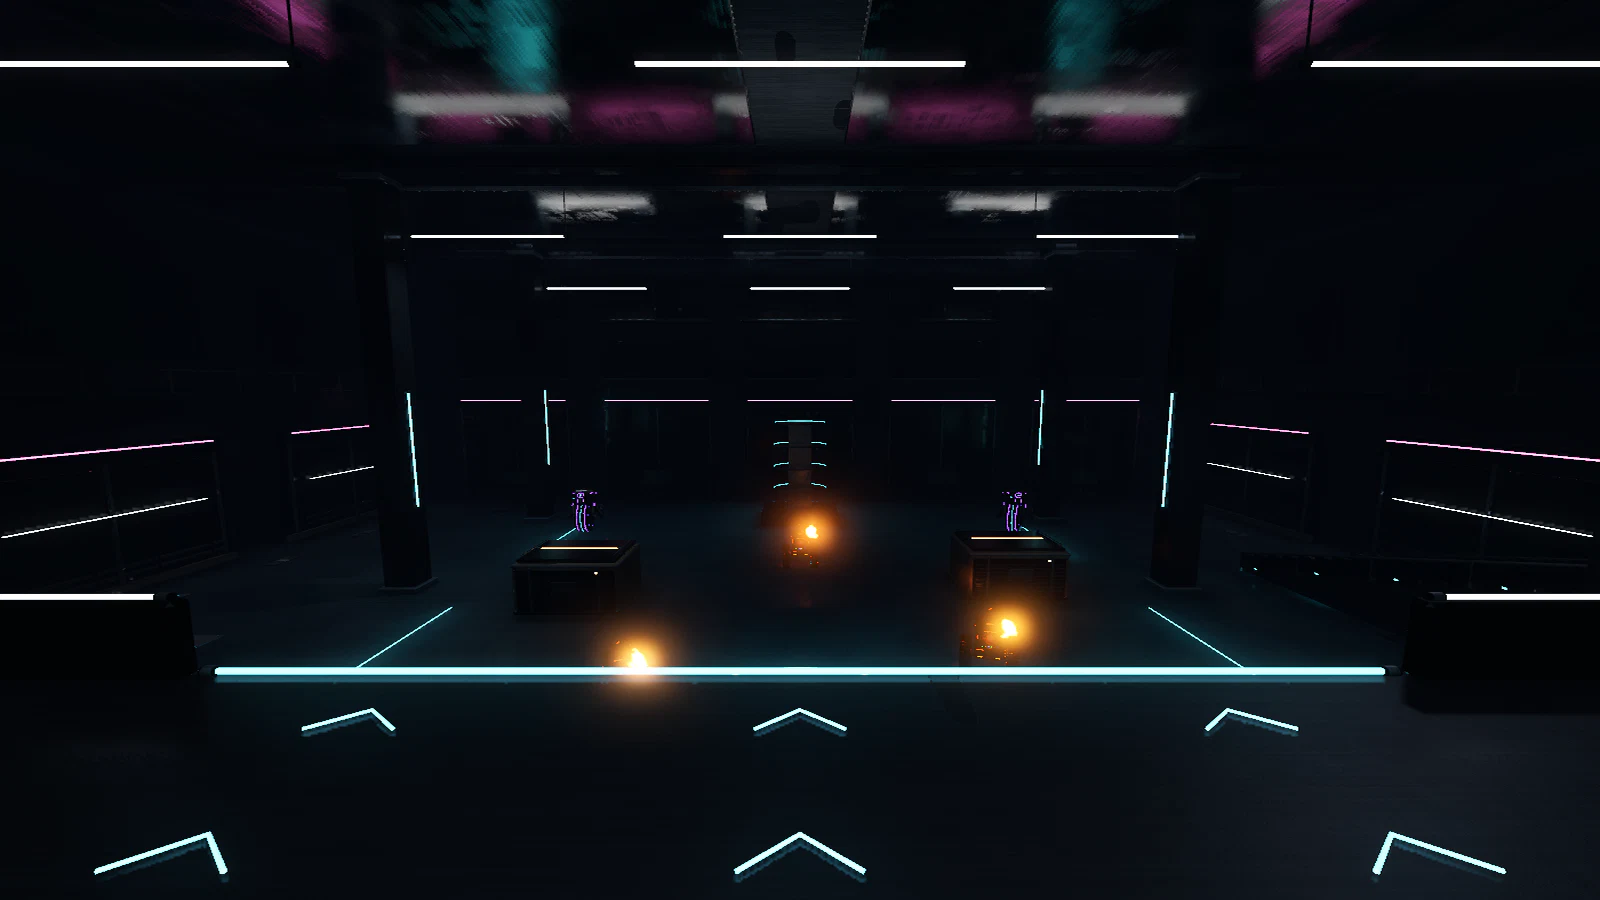
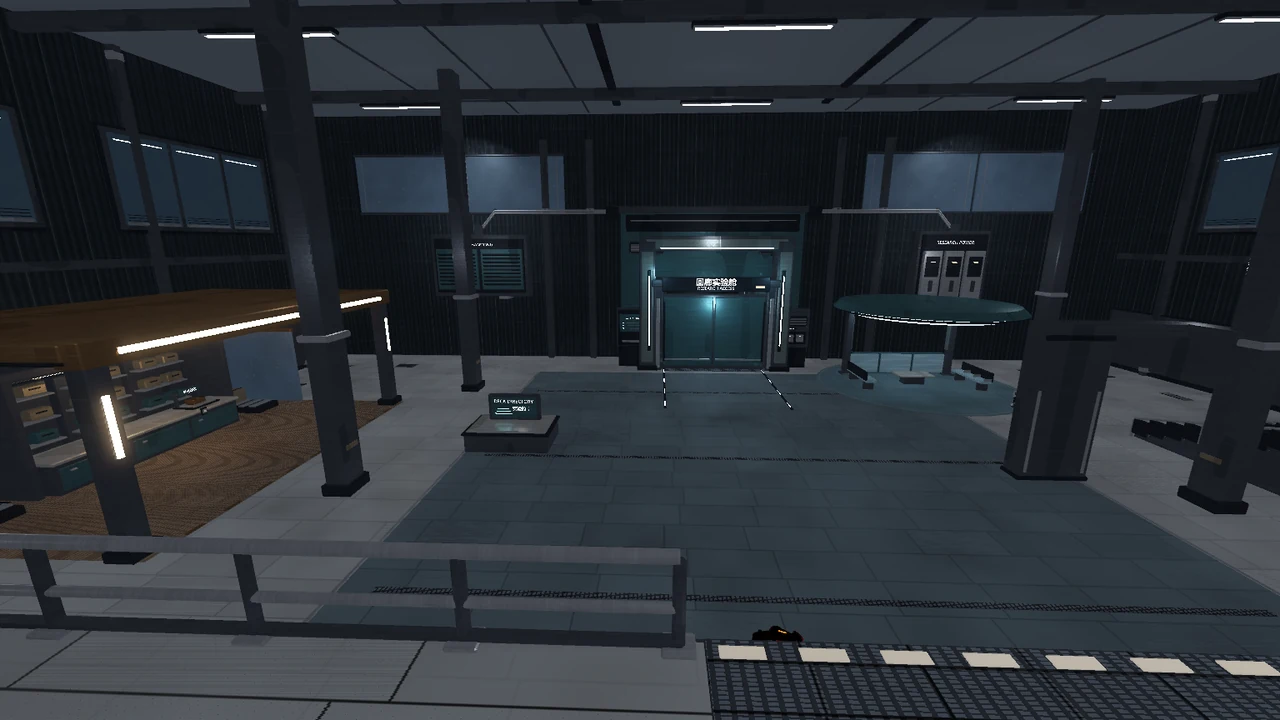
加入中庭场景交互与开场锁敌，更新关卡预览

diff --git a/main/content/levels/galleria/README.md b/main/content/levels/galleria/README.md
@@ -2,7 +2,7 @@
 
 正式第二关从货舱 02 气闸另一侧开始。上层通廊、中央坠击缺口、右侧返程楼梯和下层实验室门厅构成主线。下层有 **2 名 ARC Sentinel 和 1 台单轮巡射机甲**。
 
-货舱最后一道压力门开启后，玩家过门进入中庭上层。青色箭头引到坠击入口。打完三名敌人后，实验室门开启，穿过门槛进入回廊实验舱。
+货舱最后一道压力门开启后，玩家过门进入中庭上层。三名敌人开场开始追踪玩家，楼层高差和实体遮挡仍会限制出招。青色箭头引到坠击入口。打完三名敌人后，实验室门开启，穿过门槛进入回廊实验舱。
 
 正式场景陈设维护在 [campaign_arena.gd](src/encounter/campaign_arena.gd)。测试场景与共享楼梯导航参数维护在 [arena.gd](src/encounter/arena.gd)。
 
@@ -36,11 +36,14 @@ Windows 双击仓库根目录的 [启动试玩.cmd](../../../../启动试玩.cmd
 | 左键 + A / D / S | 方向斩 |
 | 鼠标右键 | 弹反、举刀 |
 | Q / E | 重斩 / 回旋斩 |
+| F | 查看附近设备的交互提示并操作 |
 | V / Tab | 第一、第三人称切换 / 第一人称视野遮罩 |
 | R / Esc | 重开 / 暂停及按键设置 |
 | F1 / `~` | HUD 开关 / 手感参数 |
 
 保留 demo 的视线格挡：基础怪会格挡画面内的普通攻击，侧斩、回身斩与回旋斩可攻击视野外目标。高台坠击提供另一种进攻方式。
+
+看向上层导览牌的开关可切换返程楼梯指引。补给台上的验收器会扫描货盒并显示结果。休息区的立柱开关可以调暗或恢复圆顶环灯。提示贴在对应设备上，交互键和货舱 02 共用设置。
 
 ## 场景与实现
 
